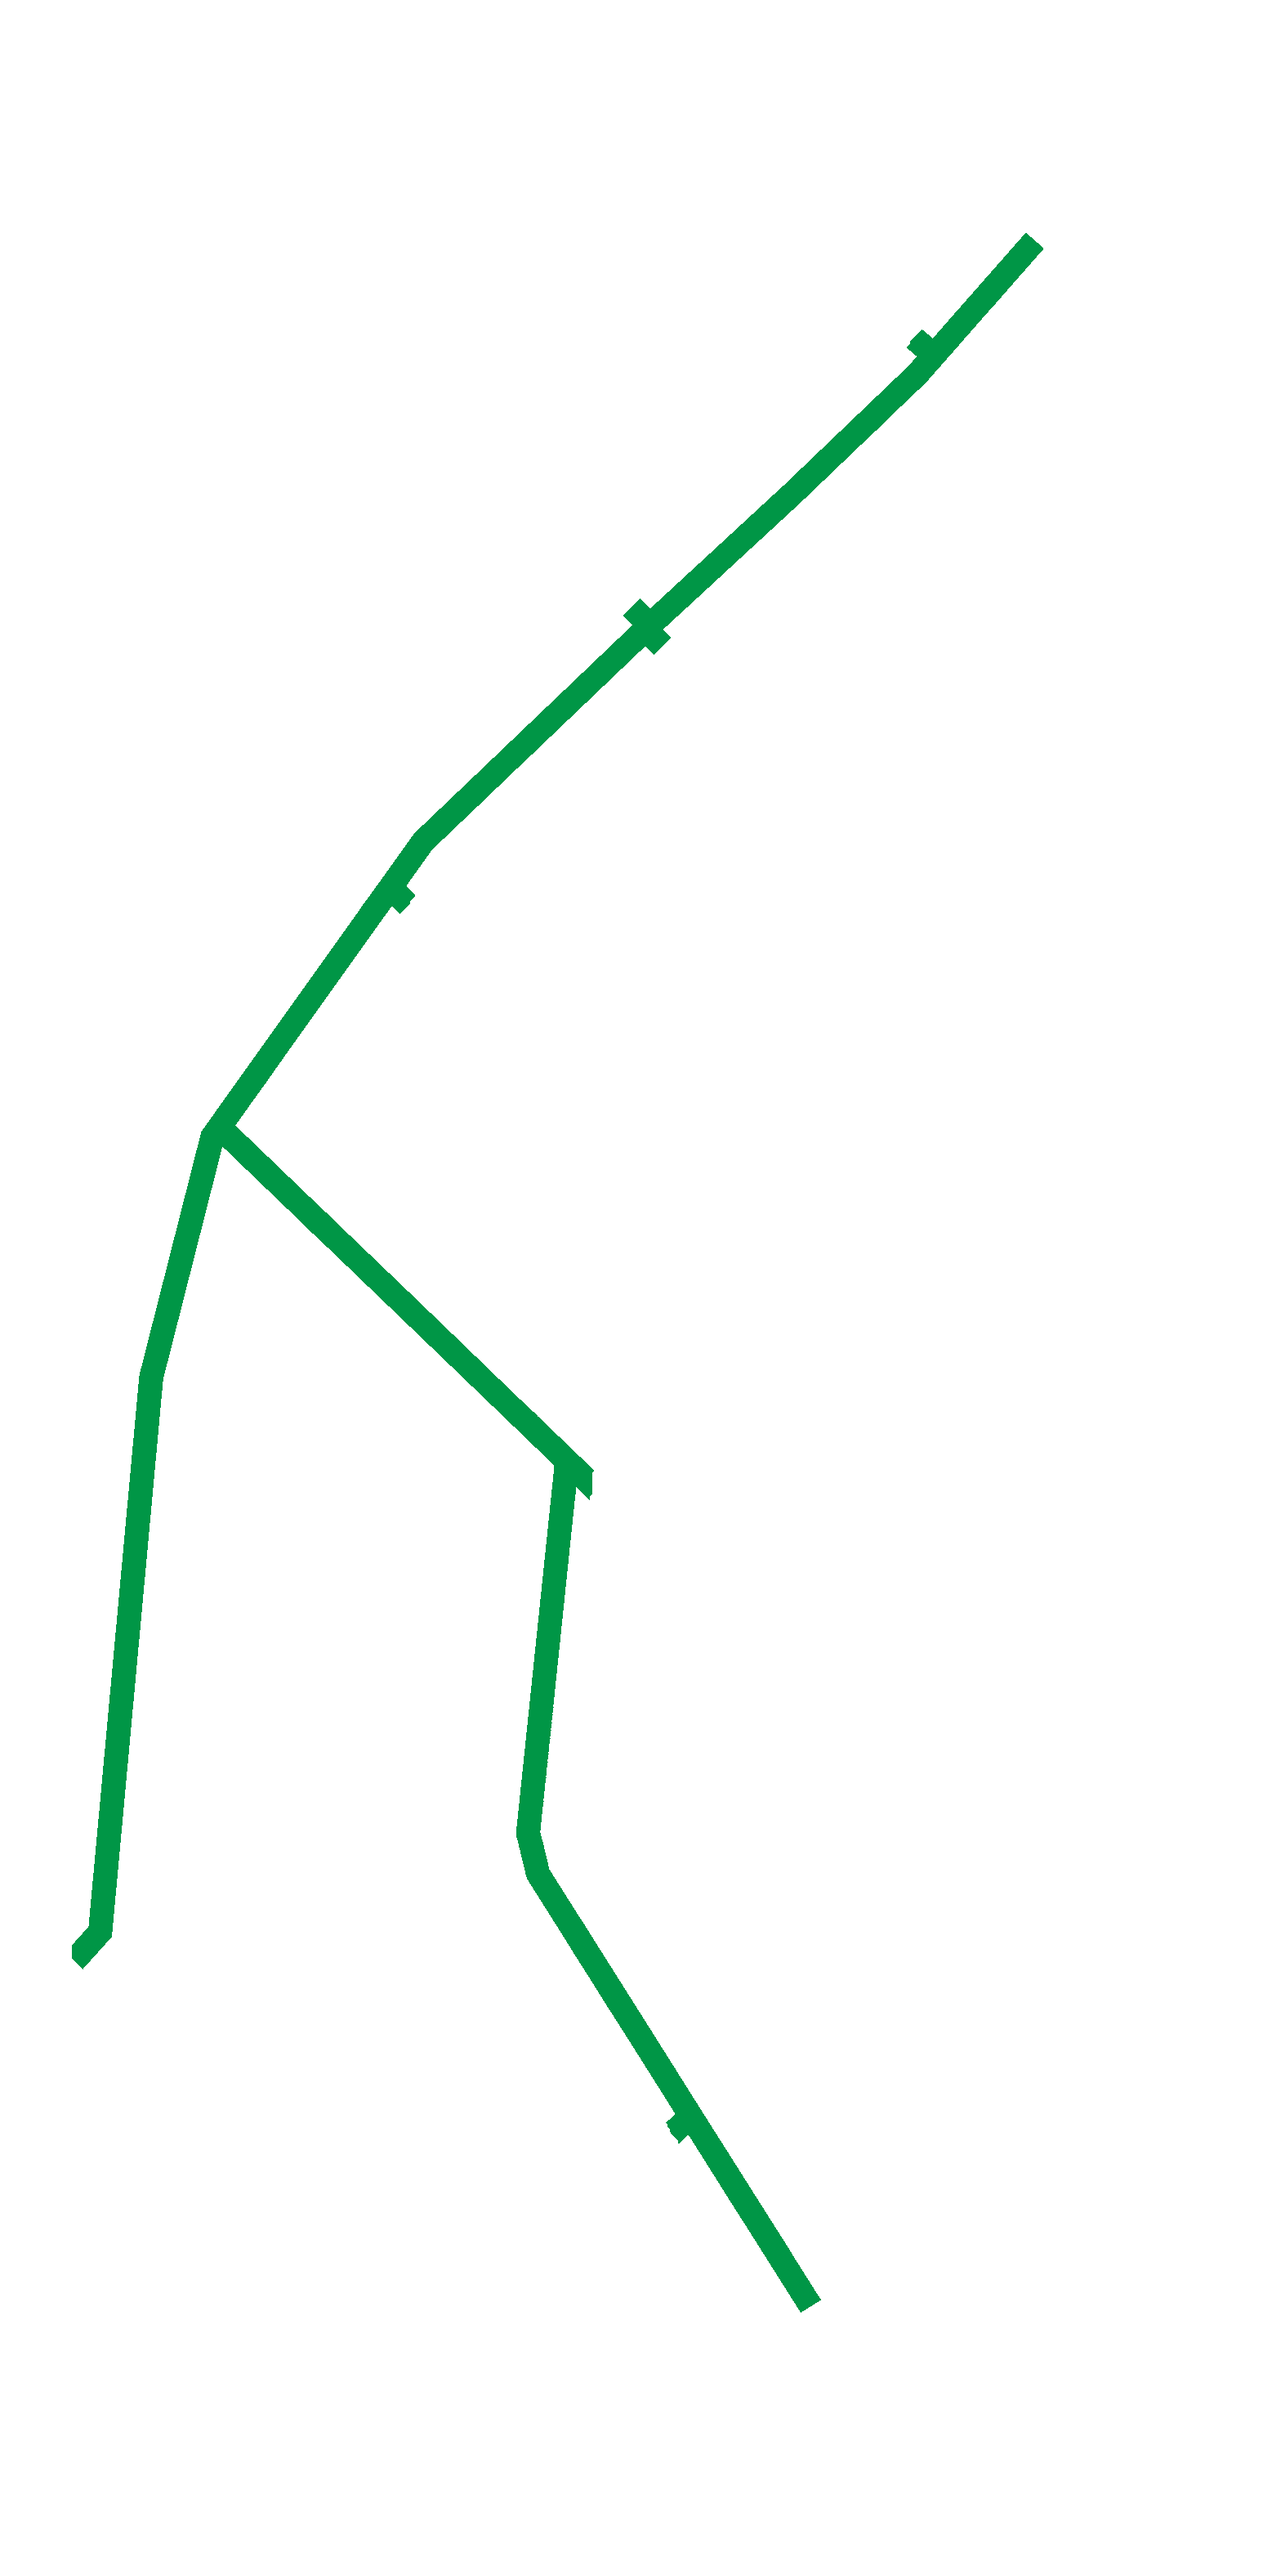
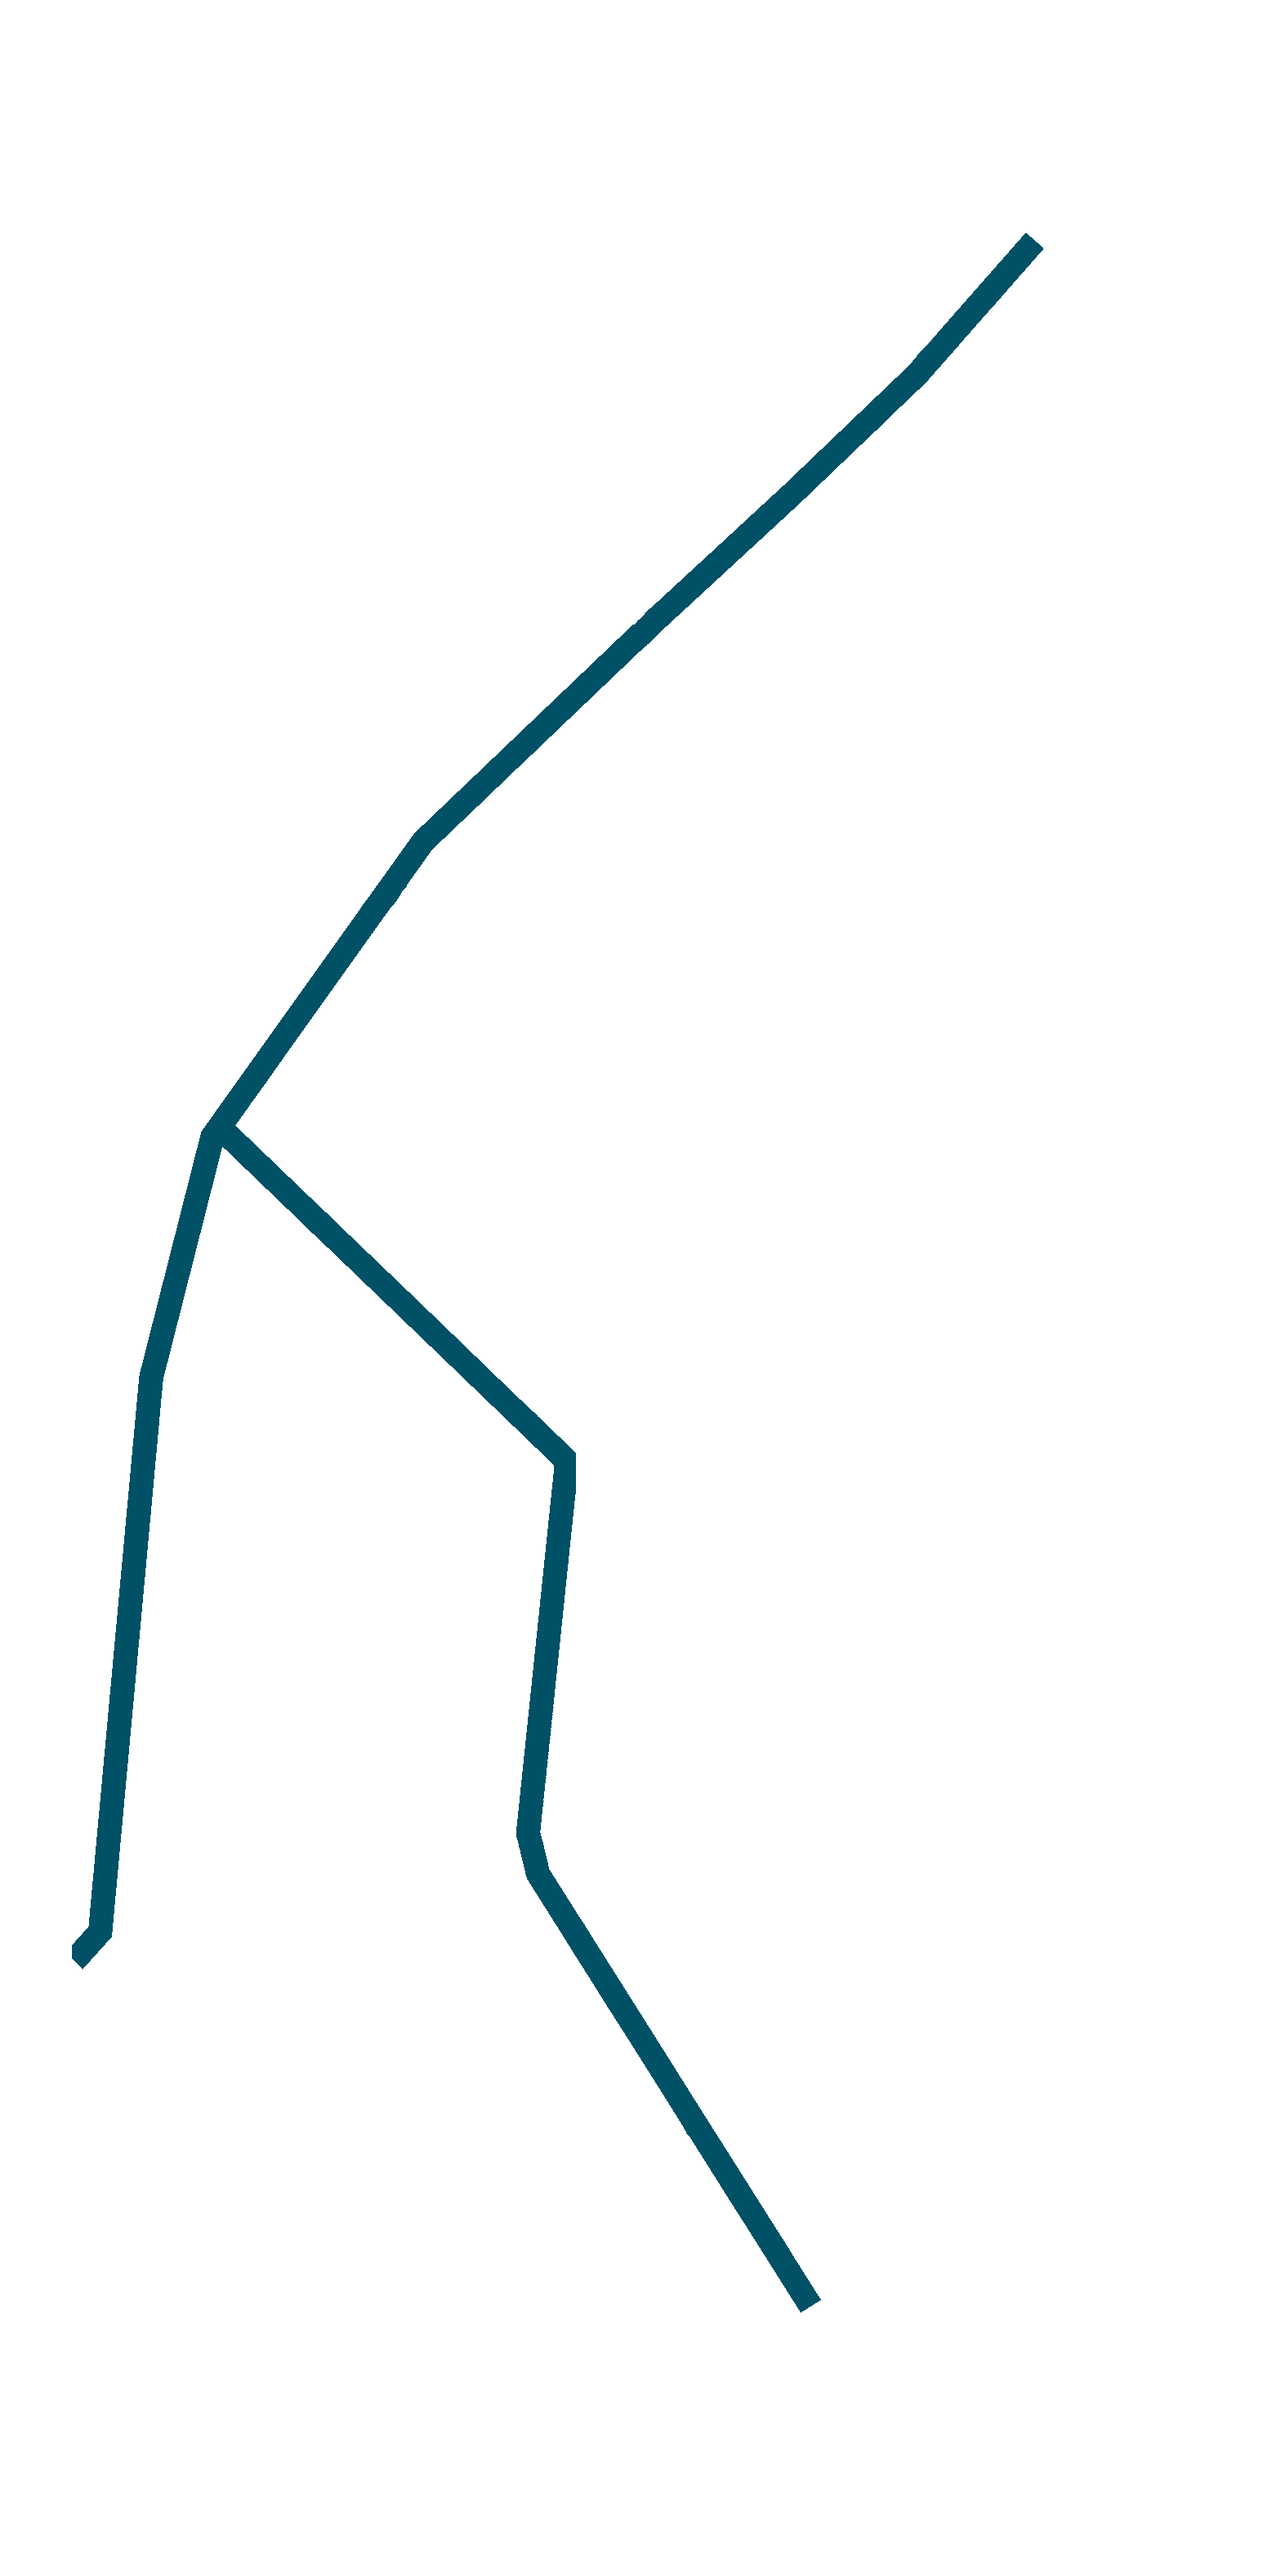
Add files via upload

diff --git a/inf.html b/inf.html
@@ -2,13 +2,13 @@
 <html lang="ru">
 <head>
 <meta charset="UTF-8">
-<meta name="viewport" content="width=device-width, initial-scale=1.0">
+<meta name="viewport" content="width=device-width, initial-scale=1.0, maximum-scale=5, user-scalable=yes">
 <title>Схема территории — СНТ «Летняя Березка»</title>
 <style>
   :root{
-    --accent:#3f7d5c;
-    --accent-dark:#2f5f46;
-    --accent-light:#e7f1ec;
+    --accent:#3068c2;
+    --accent-dark:#204a91;
+    --accent-light:#e8eefb;
     --text-main:#233029;
     --text-muted:#6b7a73;
   }
@@ -62,7 +62,7 @@
     align-items:center;
     gap:10px;
     background:var(--accent-light);
-    border:1px solid #cfe1d7;
+    border:1px solid #c8d7f2;
     border-radius:999px;
     padding:8px 16px 8px 8px;
     cursor:pointer;
@@ -110,29 +110,6 @@
     white-space:nowrap;
   }
 
-  .zoom-controls{
-    display:inline-flex;
-    gap:6px;
-  }
-
-  .zoom-controls button{
-    width:34px;
-    height:34px;
-    border-radius:10px;
-    border:1px solid #d6ded9;
-    background:#fff;
-    color:var(--accent-dark);
-    font-size:18px;
-    line-height:1;
-    cursor:pointer;
-    transition:background .15s ease,border-color .15s ease;
-  }
-
-  .zoom-controls button:hover{
-    background:var(--accent-light);
-    border-color:var(--accent);
-  }
-
   .map-wrapper{
     position:relative;
     border:1px solid #e3e9e5;
@@ -140,14 +117,13 @@
     background:#fff;
     overflow:auto;
     -webkit-overflow-scrolling:touch;
-    touch-action:pan-x pan-y;
+    touch-action:pan-x pan-y pinch-zoom;
+    max-height:75vh;
   }
 
   .map-inner{
     width:100%;
     min-width:100%;
-    transform-origin:0 0;
-    transition:width .15s ease-out;
     position:relative;
   }
 
@@ -156,7 +132,10 @@
     width:100%;
     height:auto;
   }
-
+  .map-roads-highlight{
+    opacity:0;
+    transition:opacity .2s ease;
+  }
   .map-base,
   .map-roads-grey,
   .map-roads-highlight{
@@ -167,71 +146,9 @@
     opacity:.85;
   }
 
-  .map-roads-highlight{
-    opacity:0;
-    transition:opacity .2s ease;
-  }
-
   .map-roads-highlight.active{
     opacity:1;
   }
-
-  .plot-hit{
-    fill:rgba(63,125,92,0);
-    stroke:none;
-    cursor:pointer;
-  }
-
-  .plot-hit:hover{
-    fill:rgba(63,125,92,.10);
-  }
-
-  .plot-hit:active{
-    fill:rgba(63,125,92,.18);
-  }
-
-  .hover-label{
-    font-size:27px;
-    font-weight:700;
-    fill:var(--accent-dark);
-    text-anchor:middle;
-    dominant-baseline:middle;
-    pointer-events:none;
-    opacity:0;
-    transition:opacity .1s ease;
-  }
-
-  .hover-label.visible{
-    opacity:1;
-  }
-
-  .tooltip{
-    position:absolute;
-    pointer-events:none;
-    background:var(--accent-dark);
-    color:#fff;
-    font-size:13px;
-    font-weight:600;
-    padding:6px 10px;
-    border-radius:8px;
-    transform:translate(-50%,-130%);
-    white-space:nowrap;
-    opacity:0;
-    transition:opacity .1s ease;
-    z-index:5;
-  }
-
-  .tooltip::after{
-    content:"";
-    position:absolute;
-    left:50%;
-    top:100%;
-    transform:translateX(-50%);
-    border:5px solid transparent;
-    border-top-color:var(--accent-dark);
-  }
-
-  .tooltip.visible{opacity:1;}
 
   .legend{
     display:flex;
@@ -259,16 +176,10 @@
     flex:none;
   }
 
-  .legend .legend-note{
-    font-size:11.5px;
-    color:#94a39c;
-  }
-
   @media (max-width:640px){
     .territory-header h2{font-size:22px;}
-    .territory-header p{font-size:13.5px;}
     .territory-section{padding:20px 12px 36px;}
-    .map-wrapper{border-radius:14px;}
+    .map-wrapper{border-radius:14px;max-height:65vh;}
   }
 </style>
 </head>
@@ -278,7 +189,6 @@
 
   <div class="territory-header">
     <h2>Схема территории</h2>
-    <p>Выберите участок, чтобы посмотреть информацию о задолженности, оплатах и начислениях.</p>
   </div>
 
   <div class="territory-toolbar">
@@ -287,12 +197,6 @@
       <span class="switch"></span>
       <span class="label-text">❄ Зимняя уборка дорог</span>
     </label>
-
-    <div class="zoom-controls">
-      <button type="button" id="zoomOut" aria-label="Уменьшить">−</button>
-      <button type="button" id="zoomReset" aria-label="Сбросить масштаб">⟲</button>
-      <button type="button" id="zoomIn" aria-label="Увеличить">+</button>
-    </div>
   </div>
 
   <div class="map-wrapper" id="mapWrapper">
@@ -334,151 +238,24 @@
           preserveAspectRatio="none"
         />
 
-        <!-- Прозрачные зоны клика. Их координаты привязаны к номерам участков. -->
-        <g id="plots-layer"></g>
-        <g id="hover-labels"></g>
       </svg>
     </div>
-
-    <div class="tooltip" id="tooltip"></div>
   </div>
 
   <div class="legend" id="roadsLegend">
     <span class="swatch"></span>
-    <span>Зелёным показаны участки дорог, которые планируется очищать зимой.</span>
-    <span class="legend-note">(маршрут предварительный, будет уточнён)</span>
+    <span>Синим показаны участки дорог, которые планируется очищать зимой.</span>
   </div>
 
 </section>
 
 <script>
 /*
- * Карта визуально взята непосредственно из исходной схемы.
- * Координаты ниже используются только для интерактивных зон.
- *
- * При необходимости можно менять размер зоны клика:
- * CLICK_RADIUS.
+ * Карта полностью статична: участки не кликабельны,
+ * никаких подсказок или деталей по нажатию не показывается.
+ * Масштабирование выполняется нативным жестом "два пальца" (pinch-to-zoom).
  */
 
-const plots = {
-  1:{cx:1004.0,cy:476.1},  2:{cx:884.5,cy:365.9},
-  3:{cx:789.5,cy:279.5},  4:{cx:683.5,cy:194.4},
-  5:{cx:528.5,cy:346.2},  6:{cx:618.0,cy:445.0},
-  7:{cx:707.8,cy:501.8},  8:{cx:810.6,cy:611.2},
-  9:{cx:454.3,cy:622.2}, 10:{cx:573.2,cy:661.0},
- 11:{cx:618.8,cy:861.7}, 12:{cx:469.6,cy:875.0},
- 13:{cx:414.8,cy:1081.3},14:{cx:960.9,cy:647.5},
- 15:{cx:1010.7,cy:858.0},16:{cx:1107.4,cy:963.0},
- 17:{cx:752.5,cy:911.0},18:{cx:823.2,cy:1021.4},
- 19:{cx:982.5,cy:1122.4},20:{cx:1014.5,cy:1183.7},
- 21:{cx:586.0,cy:1086.4},22:{cx:700.6,cy:1170.1},
- 23:{cx:803.4,cy:1271.0},24:{cx:897.0,cy:1383.8},
- 25:{cx:977.7,cy:1536.9},26:{cx:477.9,cy:1253.0},
- 27:{cx:627.8,cy:1375.9},28:{cx:754.8,cy:1542.2},
- 29:{cx:899.0,cy:1723.0},30:{cx:357.9,cy:1299.4},
- 31:{cx:502.7,cy:1495.4},32:{cx:684.0,cy:1675.7},
- 33:{cx:799.8,cy:1817.0},34:{cx:939.4,cy:1978.7},
- 35:{cx:346.3,cy:1579.1},36:{cx:349.5,cy:1743.8},
- 37:{cx:352.6,cy:1888.4},38:{cx:344.0,cy:2024.7},
- 39:{cx:335.2,cy:2161.2},40:{cx:329.5,cy:2301.0},
- 41:{cx:531.6,cy:1756.0},42:{cx:566.1,cy:1894.4},
- 43:{cx:568.7,cy:2047.7},44:{cx:544.8,cy:2175.5},
- 45:{cx:560.2,cy:2307.8},46:{cx:741.4,cy:1992.3},
- 47:{cx:894.1,cy:2223.6},48:{cx:713.4,cy:2266.6},
- 49:{cx:1020.3,cy:2208.0},50:{cx:863.8,cy:2491.2},
- 51:{cx:1014.8,cy:2457.0},52:{cx:1024.5,cy:2699.8},
- 53:{cx:743.6,cy:2861.3},54:{cx:872.6,cy:2843.1},
- 55:{cx:609.5,cy:2677.7},56:{cx:820.6,cy:2590.0},
- 57:{cx:576.9,cy:2474.4},58:{cx:214.2,cy:2479.8},
- 59:{cx:360.4,cy:2473.0},60:{cx:361.6,cy:2611.8},
- 61:{cx:405.8,cy:2735.4},62:{cx:403.7,cy:2851.3},
- 63:{cx:631.4,cy:2880.2},64:{cx:576.0,cy:2964.5},
- 65:{cx:406.6,cy:2949.7},66:{cx:416.6,cy:3045.3},
- 67:{cx:1111.1,cy:302.8},68:{cx:974.6,cy:201.2},
- 69:{cx:1218.9,cy:428.7},70:{cx:1118.7,cy:688.3}
-};
-
-const CLICK_RADIUS = 48;
-
-const svg = document.getElementById("territory-svg");
-const wrapper = document.getElementById("mapWrapper");
-const tooltip = document.getElementById("tooltip");
-const plotsLayer = document.getElementById("plots-layer");
-const hoverLabels = document.getElementById("hover-labels");
-
-function createSvgElement(tag, attrs){
-  const el = document.createElementNS("http://www.w3.org/2000/svg", tag);
-  Object.entries(attrs).forEach(([key,value]) => el.setAttribute(key,value));
-  return el;
-}
-
-function openPlot(id){
-  window.location.href = "debt.html?id=" + encodeURIComponent(id);
-}
-
-Object.entries(plots).forEach(([id, point]) => {
-  const hit = createSvgElement("circle", {
-    class:"plot-hit",
-    "data-id":id,
-    cx:point.cx,
-    cy:point.cy,
-    r:CLICK_RADIUS
-  });
-
-  const label = createSvgElement("text", {
-    class:"hover-label",
-    "data-id":id,
-    x:point.cx,
-    y:point.cy
-  });
-  label.textContent = id;
-
-  hit.addEventListener("mouseenter", e => {
-    label.classList.add("visible");
-    showTooltip(e, id);
-  });
-
-  hit.addEventListener("mousemove", e => {
-    positionTooltip(e);
-  });
-
-  hit.addEventListener("mouseleave", () => {
-    label.classList.remove("visible");
-    hideTooltip();
-  });
-
-  hit.addEventListener("click", () => openPlot(id));
-
-  hit.addEventListener("touchend", e => {
-    e.preventDefault();
-    openPlot(id);
-  }, {passive:false});
-
-  plotsLayer.appendChild(hit);
-  hoverLabels.appendChild(label);
-});
-
-function showTooltip(e,id){
-  tooltip.textContent = "Участок №" + id;
-  tooltip.classList.add("visible");
-  positionTooltip(e);
-}
-
-function positionTooltip(e){
-  const rect = wrapper.getBoundingClientRect();
-  tooltip.style.left =
-    (e.clientX - rect.left + wrapper.scrollLeft) + "px";
-  tooltip.style.top =
-    (e.clientY - rect.top + wrapper.scrollTop) + "px";
-}
-
-function hideTooltip(){
-  tooltip.classList.remove("visible");
-}
-
-/* ==========================
-   ЗИМНИЕ ДОРОГИ
-   ========================== */
 const roadsToggle = document.getElementById("roadsToggle");
 const roadsImageHighlight = document.getElementById("roadsImageHighlight");
 const roadsLegend = document.getElementById("roadsLegend");
@@ -486,37 +263,6 @@ const roadsLegend = document.getElementById("roadsLegend");
 roadsToggle.addEventListener("change", () => {
   roadsImageHighlight.classList.toggle("active", roadsToggle.checked);
   roadsLegend.classList.toggle("visible", roadsToggle.checked);
-});
-
-/* ==========================
-   ZOOM
-   ========================== */
-const mapInner = document.getElementById("mapInner");
-
-let scale = 1;
-const MIN_SCALE = 1;
-const MAX_SCALE = 3;
-const STEP = 0.25;
-
-function applyScale(){
-  mapInner.style.width = (scale * 100) + "%";
-}
-
-document.getElementById("zoomIn").addEventListener("click", () => {
-  scale = Math.min(MAX_SCALE, +(scale + STEP).toFixed(2));
-  applyScale();
-});
-
-document.getElementById("zoomOut").addEventListener("click", () => {
-  scale = Math.max(MIN_SCALE, +(scale - STEP).toFixed(2));
-  applyScale();
-});
-
-document.getElementById("zoomReset").addEventListener("click", () => {
-  scale = 1;
-  applyScale();
-  wrapper.scrollLeft = 0;
-  wrapper.scrollTop = 0;
 });
 </script>
 </body>
